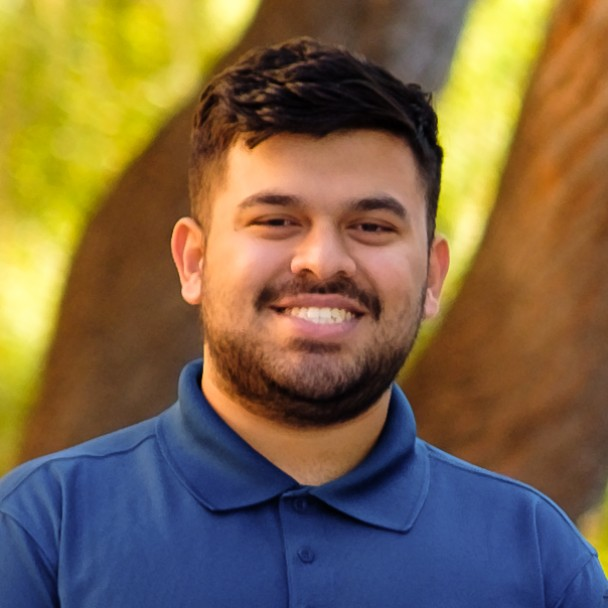
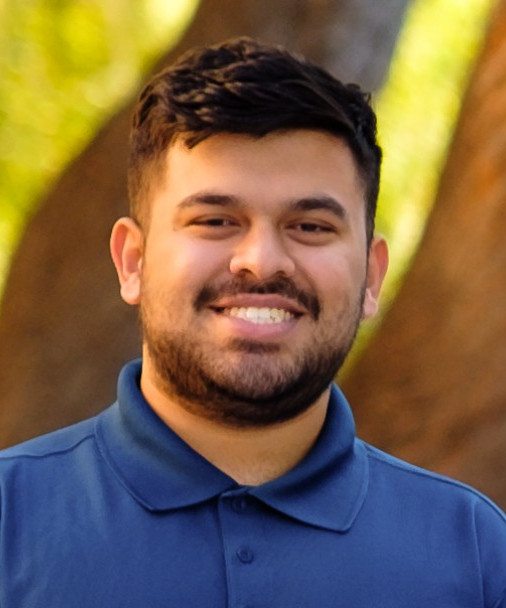
Adjusted Taron's picture to match team pictures

diff --git a/public/index.html b/public/index.html
@@ -88,7 +88,7 @@
             <div class="col-md-4">
               <div class="card">
                 <div class="img">
-                  <img src="assets/img/aaron.jpg" alt="Aaron Colin" class="img-fluid">
+                  <img src="assets/img/Aaron.jpg" alt="Aaron Colin" class="img-fluid">
                 </div>
                 <h2 class="title">Aaron Colin</h2>
                 <p class="member-description">
